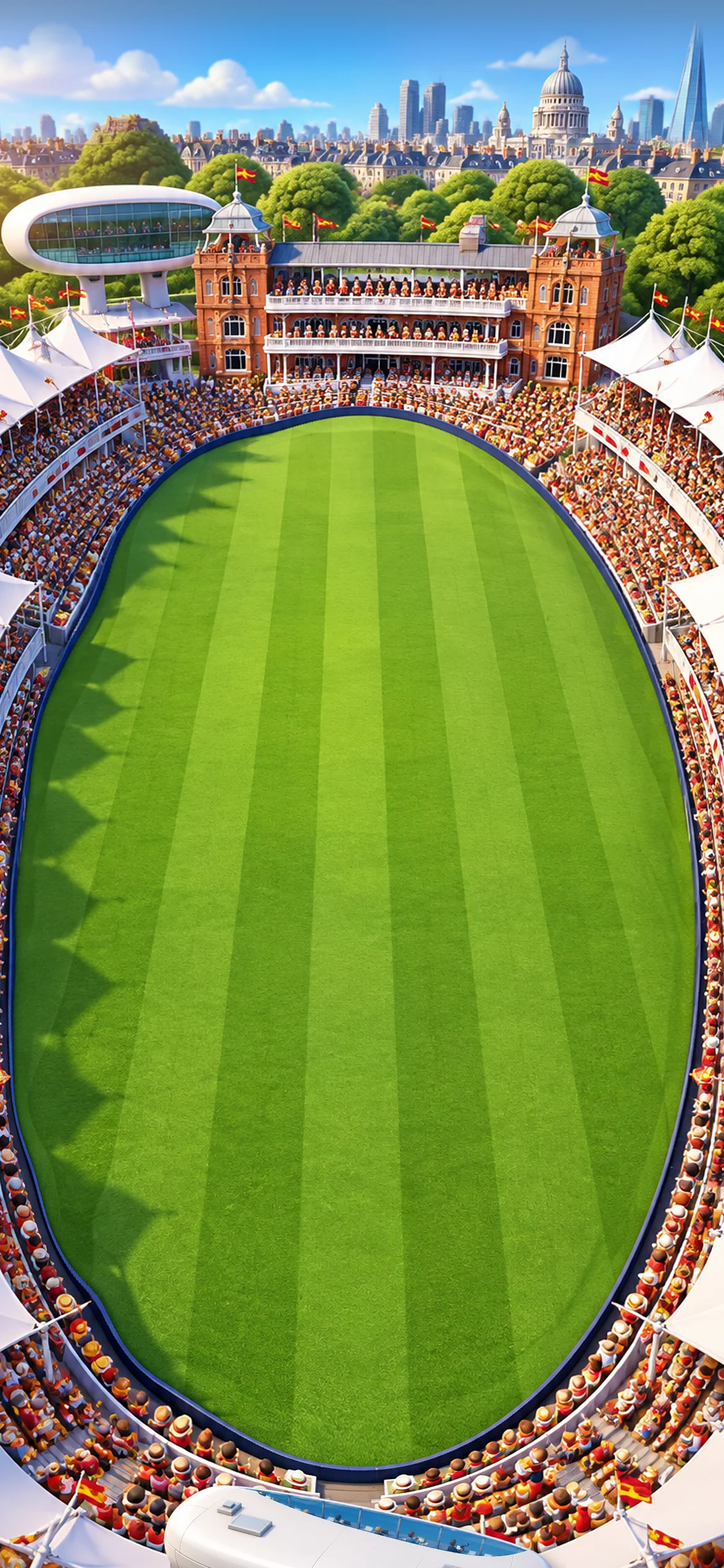
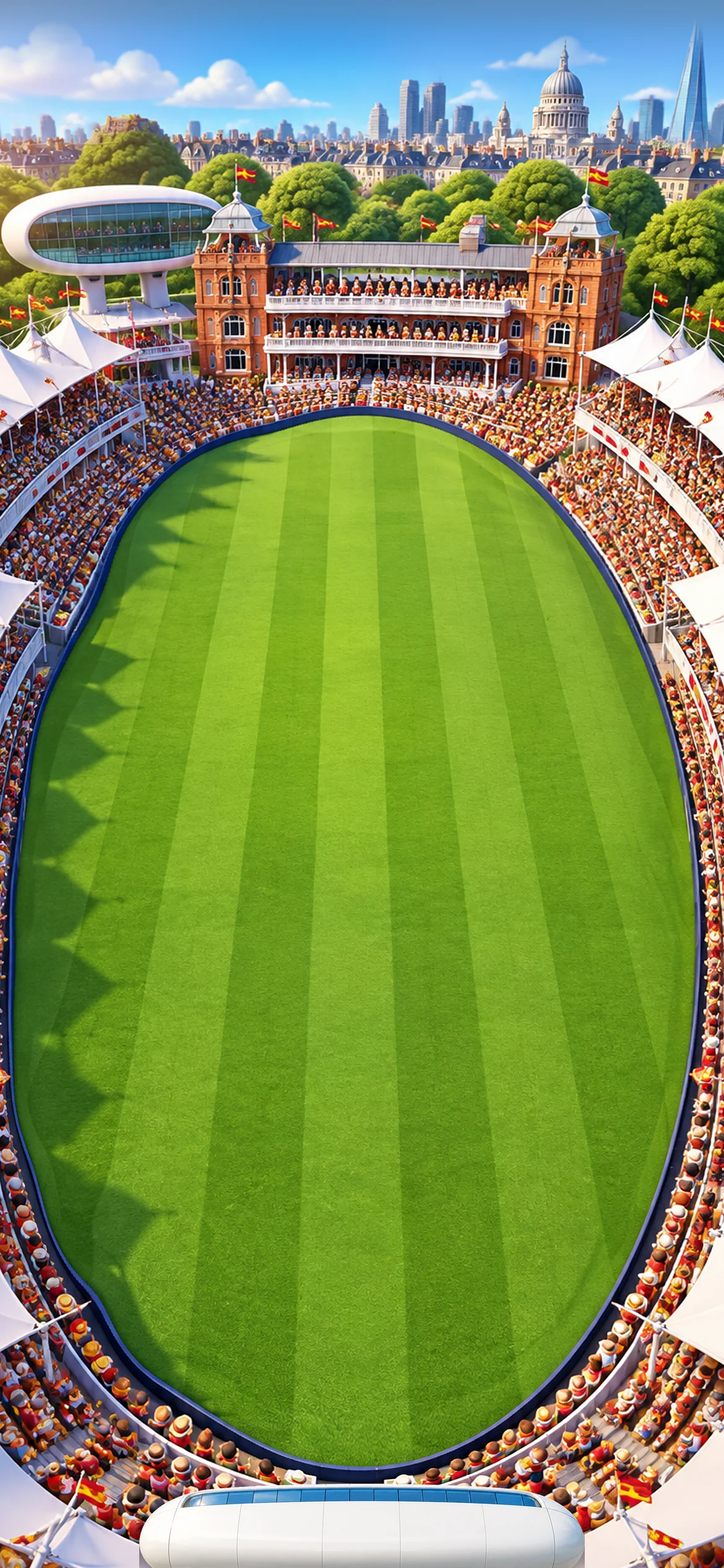
Lord's: media centre straight-on, centred at the Nursery End
Claude-Session: https://claude.ai/code/session_01EnXvJ6P6HcGRxjBSnYPdAU

Changed region(s): [[0.1846, 0.936, 0.8308, 1.0]]

diff --git a/art/grounds/lords/media.py b/art/grounds/lords/media.py
@@ -2,7 +2,7 @@
 # its roof just below the near boards and the rest running off the bottom of the screen.
 import numpy as np, cv2, sys
 from PIL import Image
-im=np.array(Image.open('raw/media_427-191.png').convert('RGB')).astype(float)
+im=np.array(Image.open('raw/media_427-192.png').convert('RGB')).astype(float)
 a=np.clip((np.sqrt(((im-[0,255,0])**2).sum(2))-45)/60,0,1); ex=np.clip(im[...,1]-np.maximum(im[...,0],im[...,2]),0,None); a=a*np.clip(1-ex/90,0,1)
 f=im.copy(); f[...,1]=np.minimum(f[...,1],np.maximum(f[...,0],f[...,2]))
 sp=Image.fromarray(np.dstack([f,cv2.erode((a*255).astype(np.uint8),np.ones((3,3),np.uint8))]).clip(0,255).astype(np.uint8)); sp=sp.crop(sp.getbbox())
@@ -11,5 +11,5 @@ sp=sp.resize((w,round(sp.height*w/sp.width)),Image.LANCZOS)
 p=Image.open('plate_v8.png').convert('RGBA')
 # soft contact shadow under it
 sh=Image.new('L',sp.size,0); sh.paste(sp.split()[3]); sh=Image.fromarray(cv2.GaussianBlur(np.array(sh),(0,0),12)//2)
-shadow=Image.new('RGBA',sp.size,(20,10,30,0)); shadow.putalpha(sh); p.alpha_composite(shadow,(cx-w//2+10,top+14))
+shadow=Image.new('RGBA',sp.size,(20,10,30,0)); shadow.putalpha(sh); p.alpha_composite(shadow,(cx-w//2,top+16))
 p.alpha_composite(sp,(cx-w//2,top)); p.convert('RGB').save('plate.png'); print(sp.size)

diff --git a/art/grounds/ART_PACKAGE.md b/art/grounds/ART_PACKAGE.md
@@ -80,4 +80,4 @@ Joe asked for "the closer camera 2 POV" = the wizard-scene view, which the spec 
 Board 424:192 (magenta): Notts-green wood + gold, archer's cap — composed by art/ui/hud_lock/compose_trentbridge.py (+ pause). Props 424:193 / words 424:194 cut by art/grounds/trentbridge/cut.py. Pitch ct 85 cb 805 wb 361. Extras: pigeons, green-gold flag (arrow, boat cut for later). Scene th_trentbridge.
 
 Nov 3 Lord's redo (v8): full PROMPTS.md template, wizard-scene camera (Camera 3 + one curved bowl) + 'field does NOT reach the sides' + 'near-end crowd same small size' → Figma 426:191 (425:191 giant near crowd, 425:192 field full width). Lord's scripts use grass hue 34–52 (canopy shadows on the grass are hue 48–49). build_clean_new (stretch .92) → snap_ring_new (max 32) → measure p90 4.3 (max 29 is the canopy shadow, boards are on the line). v7 kept as plate_v7.png. Board unchanged.
-Nov 3: media centre added at the bottom (Nursery End) — standalone pod Figma 427:191 composited by art/grounds/lords/media.py (roof just below the near boards, runs off the bottom). v8 without it kept as plate_v8.png.
+Nov 3: media centre added at the bottom (Nursery End) — standalone pod Figma 427:192 (straight-on, symmetrical, facing up the ground; 427:191 was diagonal) composited by art/grounds/lords/media.py (roof just below the near boards, runs off the bottom). v8 without it kept as plate_v8.png.
